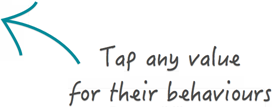
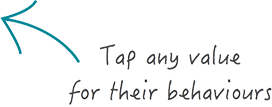
#28 - Values & Behaviours Amends 1.Correct white overlay under ‘Tap any value for their behaviours’ - Not overlapping the Values section 2.There is a white background on the arrow and ‘Tap any value for their behaviours’ 3.The user can tap ‘OK’ button or on any Values to dismiss the ‘Tap any value f

diff --git a/app/assets/stylesheets/participant/responsive.css b/app/assets/stylesheets/participant/responsive.css
@@ -12,13 +12,13 @@
 	.circle-text{font-size:24px !important; top:39%;}
 	.recentnote-box p, .nextevent-text p span, .nextevent-text p{font-size:12px;}
 	.yournetwork-box{padding:11px 0 12px;}
-	.behaviours-value{width:23.53%; padding:20px 10px 20px 20px;}
+	.behaviours-value{width:24%; padding:20px 10px 20px 0px;}
 	.behaviours-value .behaviourstablist a{font-size:14px;}
-	.behaviours-detail{width:76.47%;}
+	.behaviours-detail{width:76%;}
 	.puttingpeople-box{width:50%;}
 	.putting-people .puttingpeoplebox{min-height:180px;}
-	.behaviours-value .ui-tabs-nav .ui-tabs-active a:after{right:-20px;}
-	.behaviours-value .ui-tabs-nav .ui-tabs-active a:before{right:-21px;}
+	.behaviours-value .ui-tabs-nav .ui-tabs-active a:after{right:-30px;}
+	.behaviours-value .ui-tabs-nav .ui-tabs-active a:before{right:-31px;}
 	.notepanel-left{width:33.32%;}
 	.sharedtablist-box .shared-text{width:79.6%;}
 	.notepanel-right{width:66.68%;}
@@ -38,9 +38,14 @@
 	.activitiesvalue .activityprogress{width:100%;}
 	.activitiesvalue .circle-text{top:35%;}
 	.activitiesvalue .circle-info-half{font-size:12px; line-height:14px !important;}
-	
-	.sharechat-main{min-height:815px; max-height:815px;}
-
+	.activities-detail{width:77.08%;}
+	.activities-detail .titlerow h3{padding-left:0;}
+	.activityrow .activitytitle h3{padding-left:16px;}
+    .activities-detail .titlerow p{padding-left:0;}
+	.activityrow .activityblock p{padding-left:16px;}
+	.filteractivities{position:relative; min-height:100%; }
+	.activities-value{padding-top:0;}
+	.activitiesheight{height:calc(100vh - 140px);}
 	
 }
 @media (min-width:992px) and (max-width:1024px){
@@ -64,11 +69,21 @@
 	.activities-value{width:23.92%;}
 	
 	.sharechat-main{min-height:565px; max-height:565px;}
+	.activities-detail{width:76.8%;}
+	.filteractivities{position:relative; min-height:100%; }
+	.activities-value{padding-top:0;}
 	
+	
+}
+@media only screen and (min-device-width: 768px) and (max-device-width: 1024px) and (orientation : landscape){
+	.behaviours-value .behaviourstablist li{padding-bottom:60px;}
+	.main-panel{height:calc(100vh - 140px);}
 }
 @media (min-width:1025px) and (max-width:1500px){
 	.activitiesvalue .circle-info-half{font-size:9px; line-height:12px !important; padding:0px 10px;}
 	.sharedtablist-box .shared-text{ width:75.6%;}
+	.notepanel-left{width:28.32%;}
+	.notepanel-right{width:71.68%;}
 }
 @media (min-width:1025px){
 	.filepaneltab-value{display:none;}
@@ -139,7 +154,7 @@
 	.eventtabs-detail{width:71.67%;}
 	.eventtabs-value .mouseWheelButtons{padding:15px;}
 	.montheventbox{width:230px; padding-right:10px;}
-	.monthevent-box h5{font-size:13px;}
+	.monthevent-box h5{font-size:13px; width:130px;}
 	.monthevent-box h5 span{font-size:10px;}
 	.eventtabs-detail{padding-left:15px; padding-right:5px;}
 	.monthevent-people h4{padding-bottom:15px;}
@@ -180,7 +195,7 @@
 	.activitifilter-icon{display:block; right:5px;}
 	.activities-value{display:none;}
 	.activitiesvalue .activityprogress{width:100%;}
-	.activities-value.open{display:block; width:100%; background:rgba(0,0,0,0.5); min-height:100%; height:100%; padding-top:0;}
+	.activities-value.open{display:block; width:100%; background:rgba(0,0,0,0.5); min-height:100%; height:auto; padding-top:0;}
 	.activitiesheight{position:relative;}
 	.activitiesvalue{width:245px; padding:15px; position:relative;}
 	.activitiesvalue .activiti-close{display:block;}
@@ -207,7 +222,7 @@
 	.activitiesvalue .circle-info-half{font-size:13px; line-height:18px !important; padding:0 20px;}
 	.activitiesvalue .circle-text{top:41%;}
 	
-	.behaviours-value{width:32.53%;}
+	.behaviours-value{width:32.53%; padding-top:0px;}
 	.behaviours-detail{width:67.47%;}
 	.puttingpeople-box{width:100%;}
 	.putting-people .puttingpeoplebox{min-height:inherit;}
@@ -216,6 +231,12 @@
 	.behaviourstap-detail span img{max-width:100%;}
 	.behaviourstap-panel .behaviourstap-detail{width:86%;}
 	.md-effect-5 .md-content{height: calc(100% - 40px); overflow:auto; bottom:20px;}
+	
+	.recentnote-panel{padding-bottom:30px;}
+	.activities-detail .titlerow h3{padding-right:55px; padding-left:0;}
+	.activities-detail .titlerow p{padding-right:55px; padding-left:0;}
+	.filteractivities{position:relative; height:100%; }
+	.activities-value{padding-top:0;}
 }
 @media (max-width:639px){
 	.logo{width:100px;}
@@ -288,6 +309,7 @@
 	.monthevent-people{padding:5px 0;}
 	.circle-text{top:44px;}
 	.montheventbox{width:205px;}
+	.montheventbox h5{width: 120px;}
 	.behaviou-detail li{width:100%;}
 	.participantsrow{padding-bottom:15px;}
 	.alphabetrow{background:#fff;}
@@ -295,8 +317,8 @@
 	.dashboardpopup-panel h3{font-size:17px; line-height:20px;}
 	
 	.dashboardpopup-panel{border-radius:3px;}
-	.behaviours-value{width:43.5%; padding:13px;}
-	.behaviours-detail{width:56.5%; padding-left:13px; padding-right:13px;}
+	.behaviours-value{width:44%; padding:0px 0px 13px 0px;}
+	.behaviours-detail{width:56%; padding-left:13px; padding-right:13px;}
 	.puttingpeople-box{width:100%; padding:0 0 12px;}
 	.putting-people .puttingpeoplebox{min-height:inherit;}
 	.behaviours-value .behaviourstablist a{font-size:11px; line-height:16px; padding-left:20px;}
@@ -312,14 +334,14 @@
 	.activitifilter-icon{display:block; right:5px;}
 	.activities-value{display:none;}
 	.activitiesvalue .activityprogress{width:100%;}
-	.activities-value.open{display:block; width:100%; background:rgba(0,0,0,0.5); min-height:100%; height:100%; padding-top:0;}
+	.activities-value.open{display:block; width:100%; background:rgba(0,0,0,0.5); min-height:100%; height:auto; padding-top:0;}
 	.activitiesvalue{width:245px; padding:15px; position:relative;}
 	.activitiesvalue .activiti-close{display:block;}
 	.activitiesvalue ul li.active::before{right:-25px;}
 	.activitiesvalue ul li.active::after{right:-23px;}
 	.activities-detail{width:100%; padding:15px 14px 85px 14px}
 	.activityrow{padding:0;}
-	.activityrow .row{ margin-left:0px; margin-right:0px;}
+	.activityrow .row{ margin-left:-8px; margin-right:-8px;}
 	.activityrow .activityrow-box{}
 	.activities-icon.activitifilter-bottom{position:fixed; background:#fff; padding:12px 0 12px; box-shadow:0 0 3px rgba(0, 0, 0, 0.16);}
 	.activities-icon.activitifilter-bottom i{width:35px; height:35px; }
@@ -353,6 +375,13 @@
 	.md-effect-5 .md-content{height:auto; overflow:inherit; bottom:auto;}
 	.activitipopup-title .activitititle-text{width:64%;}
 	.activitititle-text h3{font-size:14px; line-height:18px;}
+	
+	.download-notehist{text-align:left; padding-left:20px;}
+	.sharechat-input .notepopup-footer{position:absolute; right:25px; top:12px; padding-left:0;}
+	.sharechat-input input{padding-right:100px;}
+	.behaviours-value .ui-tabs-nav .ui-tabs-active a:before{right:-31px;}
+	.behaviours-value .ui-tabs-nav .ui-tabs-active a:after{right:-30px;}
+	
 }
 @media (min-width:320px) and (max-width:359px){
 	.activityprogress-list ul li{font-size:7px;}
@@ -362,4 +391,7 @@
 	.home-page.main-panel{position:relative;}
 	.md-effect-5 .md-content{height: calc(100% - 40px); overflow:auto; bottom:20px;}
 	.eventtabs-value .mouseWheelButtons{padding:15px 10px;}
+	
+	.welcome-text{padding-top:40px;}
+	
 }

diff --git a/app/assets/stylesheets/participant/style.css b/app/assets/stylesheets/participant/style.css
@@ -48,7 +48,7 @@ input::focus, textarea::focus, input::active, textarea::active{ border:0px; outl
 .container{width:1182px; margin:0 auto; position:relative;}
 
 .main-contant{width:100%;}
-.main-panel{padding-left:0px; }
+.main-panel{padding-left:0px; height:calc(100vh - 70px);}
 .left-mainmenu {background: #fdfdfd; width:240px; margin-left:0; position:fixed; display:block; z-index:100; height:calc(100%); box-shadow:0 2px 5px 0 rgba(0, 0, 0, 0.16), 0 2px 10px 0 rgba(0, 0, 0, 0.12);}
 .left-mainmenu:hover{}
 .overlay[data-sidebar-overlay] {display: none; left: 0; background:rgba(0,0,0,0.5); min-height: inherit; opacity: 0; position: fixed; top: 0; height:100%;  width: 100%; z-index:9;}
@@ -246,7 +246,8 @@ header{padding:18px 20px 0;}
 .dashboardpopup-panel p a{color:#cddc39;}
 .dashboardpopup-panel p.question-con{padding:17px 0 0; line-height:24px;}
 
-.behaviours-value{float:left; width:17.53%; top:0; padding-top:69px; height:100%; position:absolute;}
+.behaviours-panel, #behavioursTabs{ height:100%;}
+.behaviours-value{float:left; width:18%; top:0; padding-top:69px; height:100%; position:absolute;}
 .behavioursvalue{background:#fff; box-shadow:0 0px 2px rgba(0, 0, 0, 0.16); padding:20px; min-height:100%;}
 .behaviours-value h3{font-size:16px; line-height:20px; font-weight:600; padding:0; margin:0; color:#454342; text-transform:uppercase;}
 .behaviours-value .behaviourstablist{padding:20px 0 0 10px; margin:0;}
@@ -265,7 +266,7 @@ header{padding:18px 20px 0;}
 .behaviours-value .ui-tabs-nav .ui-tabs-active.succeresult a{color:#9560a8;}
 .behaviours-value .ui-tabs-nav .ui-tabs-active a:after{border-top:10px solid transparent; border-bottom:10px solid transparent; border-left:10px solid #fff; content:""; display:block; width:0; height:0; position:absolute; top:5px; right:-30px; }
 .behaviours-value .ui-tabs-nav .ui-tabs-active a:before{border-top:10px solid transparent; border-bottom:10px solid transparent; border-left:10px solid rgba(0, 0, 0, 0.16); content:""; display:block; width:0; height:0; position:absolute; top:5px; right:-31px; }
-.behaviours-detail{float:right; width:79.47%; padding:20px 7px 20px 22px; position:relative;}
+.behaviours-detail{float:right; width:82%; padding:20px 7px 20px 22px; position:relative;}
 .behaviours-detail h3{font-size:16px; line-height:20px; font-weight:600; padding:0 0 16px 13px; margin:0; color:#454342; text-transform:uppercase;}
 .putting-people{margin:0; padding:0;}
 .puttingpeople-box{float:left; width:33.33%; padding:0 13px 16px;}
@@ -329,9 +330,10 @@ header{padding:18px 20px 0;}
 .material-footer p a{color:#000; font-weight:600;}
 .material-footer .addtocelendar{float:right; width:auto; padding:0 12px;}
 
-.notepanel-left{width:20.32%; float:left;  padding:69px 0 0; top:0; height:100%; position:absolute; z-index:1;}
+.note-panel{ height:100%;}
+.notepanel-left{width:20%; float:left;  padding:69px 0 0; top:0; height:100%; position:absolute; z-index:1;}
 .notepanelleft{background:#f9f9f9; box-shadow:0 0px 2px rgba(0, 0, 0, 0.16); height:100%;}
-.notepanel-right{float:right; width:75.68%; padding-left:20px; position:relative;}
+.notepanel-right{float:right; width:80%; padding-left:20px; position:relative; height:100%;}
 .notetabs-value .ui-tabs-nav{padding:0; margin:0;}
 .notetabs-value .ui-tabs-nav li{width:50%; float:left;}
 .notetabs-value .ui-tabs-nav a{background:#f9f9f9; display:block; padding:20px 0; text-align:center; font-size:13px; color:#727272; line-height:16px; font-weight:400; text-transform:uppercase; border-left:1px solid #c8c8c8; border-bottom:1px solid #c8c8c8; border-right:1px solid #c8c8c8;}
@@ -364,8 +366,8 @@ header{padding:18px 20px 0;}
 .addnote-view .addnote-icon{background:url(/assets/new_button.png) no-repeat left top; width:78px; height:78px; display:block; background-size:100% 100%;}
 .addnote-text{position:absolute; left:-130px; top:70px;}
 .close .addnote-text{display:none;}
-.sharemain-panel{padding-bottom:18px;}
-.sharechat-main{padding-top:12px; padding-right:20px; max-height:620px; min-height:620px; overflow:auto;}
+.sharemain-panel{padding-bottom:0px;}
+.sharechat-main{padding-top:12px; padding-right:20px; height:calc(100% - 60px); overflow:auto;}
 .sharechat-title{float:left; width:100%; padding-top:10px; position:relative;}
 .sharechat-title  .sharechattitle-img{width:44px; height:44px; border-radius:100%; overflow:hidden; float:left;  border:1px solid #cfe02b;}
 .sharechat-title  .sharechattitle-img img{max-width:100%; min-width:100%;}
@@ -384,7 +386,7 @@ header{padding:18px 20px 0;}
 .sharechat-input input::-webkit-input-placeholder{color:#727272; background:url(/assets/input-arrow.jpg) no-repeat left center; padding-left:10px;}
 .sharechat-input input::-ms-placeholder{color:#727272; background:url(/assets/input-arrow.jpg) no-repeat left center; padding-left:10px;}
 .sharemain-panel{display:none;}
-.sharemain-panel.activeLnk{display:block;}
+.sharemain-panel.activeLnk{display:block; height:100%;}
 .download-notehist{position:absolute; width:100%; text-align:center; bottom:0; background:#fff; left:0; padding:15px 0; border-top:1px solid #d8d8d8; border-right:1px solid #d8d8d8;}
 .download-notehist .dNotehistory{display:inline-block; font-size:14px; line-height:32px; padding:0 0 0 43px; margin:0; font-weight:600; color:#404042; text-transform:uppercase; background:url(/assets/download_material.png) no-repeat left center; background-size:32px 32px;}
 .note-block{padding-bottom:70px; min-height:100%; overflow:auto;}
@@ -446,7 +448,7 @@ header{padding:18px 20px 0;}
 .sharedfiles-panel{margin:0 -9px;}
 .myfiles-box{width:50%; padding:0 9px 17px; float:left;}
 .myfiles-block{background:#ffffff; border:1px solid #dddddd; border-radius:6px; box-shadow:0 0 3px rgba(0,0,0,0.16); padding:16px 20px; position:relative;}
-.myfiles-block:hover, .myfiles-block:focus{ border:1px solid #008b9a; }
+.myfiles-block:hover, .myfiles-block:focus,  .myfiles-block.active{ border:1px solid #008b9a; }
 .myfilesbox-text{padding-right:200px;}
 .myfiles-block h4{font-size:16px; line-height:20px; font-weight:400; color:#3c3c3c; padding:0 0 6px; margin:0;}
 .myfiles-block p{font-size:13px; color:#727272; line-height:18px; font-weight:400; padding:0 0 5px; margin:0;}
@@ -656,4 +658,5 @@ header{padding:18px 20px 0;}
 .activityrow .pointsrow{margin-top:15px; text-transform:uppercase; display:inline-block; width:100%;}
 .activityrow .pointsrow span{line-height:26px;}
 .activityrow .pointsrow a{border-radius:6px; background:#008b9a; color:#fff; padding:5px 15px; float:right;}
-
+.filteractivities{position:relative; min-height:100%; }
+	.activities-value{padding-top:0;}
